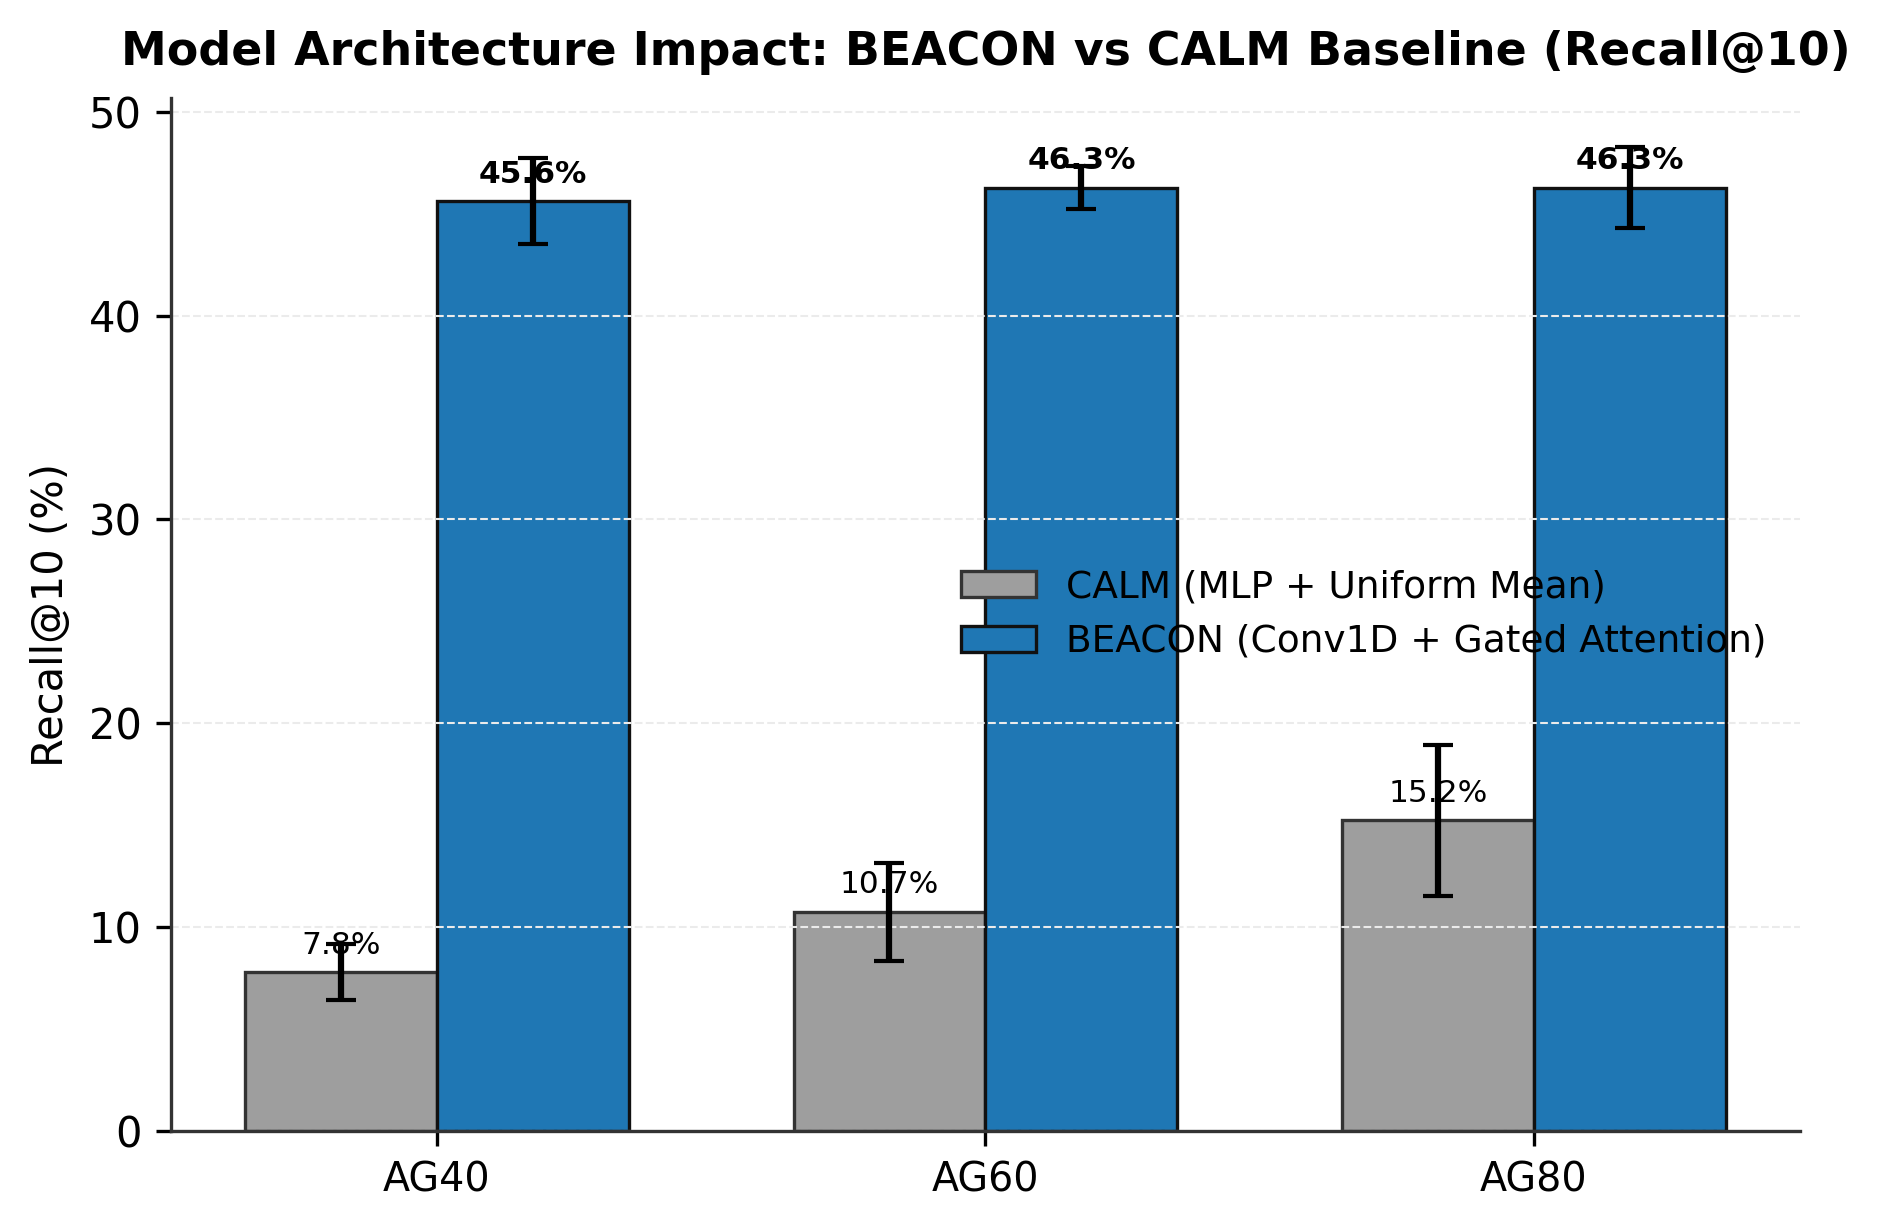
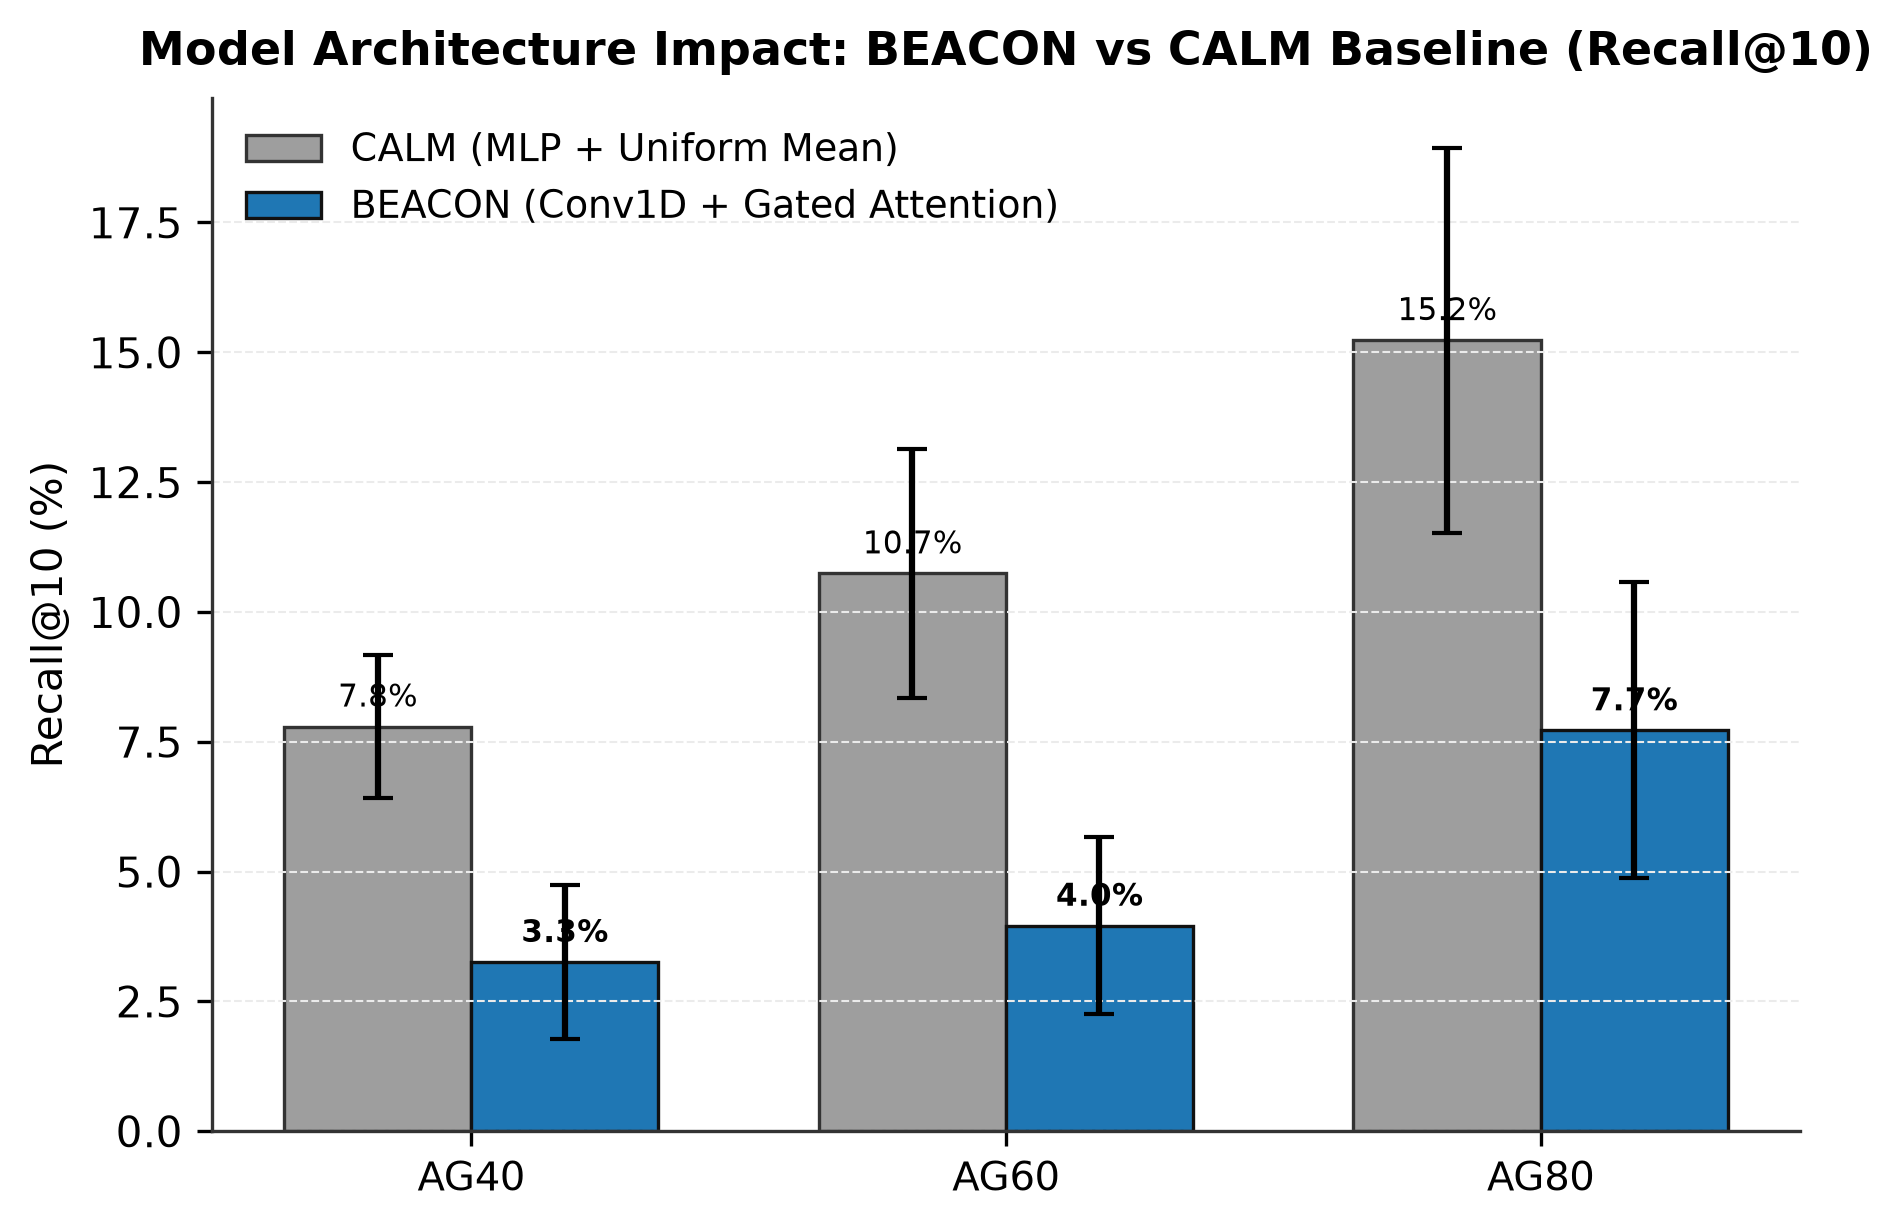
feat: align evaluation protocol with CALM (fixed pool size 256) and update benchmarks

diff --git a/scripts/train_kfold.py b/scripts/train_kfold.py
@@ -31,6 +31,7 @@ if str(PROJECT_ROOT) not in sys.path:
     sys.path.insert(0, str(PROJECT_ROOT))
 
 from beacon.config import BiEncoderConfig, TrainingConfig, load_config
+from beacon.config import EvaluationConfig
 from beacon.data.clustering import build_clusters, subsample
 from beacon.data.dataset import BiomoleculePairDataset, collate_padded_batch
 from beacon.data.embeddings import MemoryMappedEmbeddingStore
@@ -113,6 +114,112 @@ def evaluate_split_retrieval(
     }
 
 
+def build_evaluation_pools(indices, pool_size: int = 256, max_pairs: int = 512, seed: int = 0) -> List[np.ndarray]:
+    """Builds evaluation candidate pools of fixed size (matching CALM protocol)."""
+    rng = np.random.default_rng(seed)
+    order = np.asarray(list(indices), dtype=np.int64)
+    rng.shuffle(order)
+    if max_pairs and int(max_pairs) > 0:
+        order = order[: int(max_pairs)]
+    width = max(2, int(pool_size))
+    pools: List[np.ndarray] = []
+    for start in range(0, order.size, width):
+        block = order[start:start + width]
+        if block.size == width:
+            pools.append(block)
+    if not pools and order.size >= 2:
+        pools.append(order)
+    return pools
+
+
+def extract_split_embeddings(
+    model: BiEncoderScreening,
+    dataset: BiomoleculePairDataset,
+    indices: List[int],
+    device: torch.device
+) -> Dict[str, torch.Tensor]:
+    """Extracts antibody and antigen embeddings and labels for a specific split."""
+    model.eval()
+    sub = Subset(dataset, indices)
+    loader = DataLoader(
+        sub,
+        batch_size=min(len(sub), 256),
+        shuffle=False,
+        collate_fn=collate_padded_batch,
+        num_workers=(4 if device.type == "cuda" else 0),
+        pin_memory=(device.type == "cuda")
+    )
+    all_ab_emb, all_ag_emb = [], []
+    all_ab_lbl, all_ag_lbl = [], []
+
+    with torch.no_grad():
+        for batch in loader:
+            ag_feat = batch["antigen_feat"].to(device, non_blocking=True)
+            ab_feat = batch["antibody_feat"].to(device, non_blocking=True)
+            ag_mask = batch["antigen_mask"].to(device, non_blocking=True)
+            ab_mask = batch["antibody_mask"].to(device, non_blocking=True)
+            cdr_mask = batch["cdr_mask"].to(device, non_blocking=True)
+
+            if device.type == "cuda":
+                with torch.amp.autocast(device_type="cuda", dtype=torch.bfloat16 if torch.cuda.is_bf16_supported() else torch.float16):
+                    v_ag = model.encode_antigen(ag_feat, ag_mask)
+                    u_ab = model.encode_antibody(ab_feat, ab_mask, cdr_mask)
+            else:
+                v_ag = model.encode_antigen(ag_feat, ag_mask)
+                u_ab = model.encode_antibody(ab_feat, ab_mask, cdr_mask)
+
+            all_ab_emb.append(u_ab.cpu().float())
+            all_ag_emb.append(v_ag.cpu().float())
+            all_ab_lbl.append(batch["antibody_label"])
+            all_ag_lbl.append(batch["antigen_label"])
+
+    return {
+        "ab_emb": torch.cat(all_ab_emb, dim=0),
+        "ag_emb": torch.cat(all_ag_emb, dim=0),
+        "ab_lbl": torch.cat(all_ab_lbl, dim=0),
+        "ag_lbl": torch.cat(all_ag_lbl, dim=0),
+    }
+
+
+def evaluate_pools_from_embeddings(
+    split_embs: Dict[str, torch.Tensor],
+    pools_local_indices: List[np.ndarray],
+    ks: Tuple[int, ...] = (1, 5, 10, 50, 100)
+) -> Dict[str, Any]:
+    """Computes Recall@K over fixed pools (CALM protocol) using precomputed embeddings."""
+    totals = {"ab_to_ag": {}, "ag_to_ab": {}, "mean": {}}
+    weight = 0
+    for pool_idx in pools_local_indices:
+        idx_t = torch.as_tensor(pool_idx, dtype=torch.long)
+        u_ab = split_embs["ab_emb"][idx_t]
+        v_ag = split_embs["ag_emb"][idx_t]
+        ab_lbl = split_embs["ab_lbl"][idx_t]
+        ag_lbl = split_embs["ag_lbl"][idx_t]
+
+        sim_ab2ag = torch.matmul(u_ab, v_ag.t())
+        pos_ab2ag = positive_mask(ag_lbl)
+        sim_ag2ab = sim_ab2ag.t()
+        pos_ag2ab = positive_mask(ab_lbl)
+
+        r_ab2ag = compute_recall_at_k(sim_ab2ag, pos_ab2ag, ks)
+        r_ag2ab = compute_recall_at_k(sim_ag2ab, pos_ag2ab, ks)
+        p_len = len(pool_idx)
+        for k in ks:
+            totals["ab_to_ag"][k] = totals["ab_to_ag"].get(k, 0.0) + r_ab2ag[k] * p_len
+            totals["ag_to_ab"][k] = totals["ag_to_ab"].get(k, 0.0) + r_ag2ab[k] * p_len
+            totals["mean"][k] = totals["mean"].get(k, 0.0) + 0.5 * (r_ab2ag[k] + r_ag2ab[k]) * p_len
+        weight += p_len
+
+    res = {}
+    for d in totals:
+        res[d] = {k: totals[d][k] / max(weight, 1) for k in totals[d]}
+    res["pairs"] = weight
+    res["pools"] = len(pools_local_indices)
+    res["pool_size"] = len(pools_local_indices[0]) if pools_local_indices else 0
+    res["random_baseline"] = {k: min(1.0, float(k) / float(max(res["pool_size"], 1))) for k in ks}
+    return res
+
+
 def train_single_fold(
     fold_idx: int,
     model_cfg: BiEncoderConfig,
@@ -121,7 +228,9 @@ def train_single_fold(
     split_indices,
     device: torch.device,
     fold_save_dir: Path,
-    ks: Tuple[int, ...] = (1, 5, 10, 50, 100)
+    ks: Tuple[int, ...] = (1, 5, 10, 50, 100),
+    pool_size: int = 256,
+    test_pairs_per_fold: int = 512
 ) -> Dict[str, Any]:
     """Trains a single fold and returns validation/test performance."""
     print("\n" + "=" * 70)
@@ -220,17 +329,31 @@ def train_single_fold(
         if epoch % 5 == 0 or epoch == train_cfg.epochs:
             print(f"  [Fold {fold_idx}] Epoch {epoch:02d}/{train_cfg.epochs:02d} | Loss: {avg_loss:.4f} | Val R@10: {val_r10*100:.2f}% (Best: {best_val_score*100:.2f}% @ Ep{best_epoch})")
 
-    # Load best checkpoint and evaluate on held-out test split
-    print(f"  Evaluating Best Fold {fold_idx} Checkpoint (Epoch {best_epoch}) on Test Set...")
+    # Load best checkpoint and evaluate on held-out test split (both fixed pool and full test split)
+    print(f"  Evaluating Best Fold {fold_idx} Checkpoint (Epoch {best_epoch}) on Test Set (Pool {pool_size} & Full Split)...")
     best_data = torch.load(best_ckpt_path, map_location=device, weights_only=False)
     model.load_state_dict(best_data["model_state"])
-    test_res = evaluate_split_retrieval(model, test_loader, device, ks=ks)
+
+    # 1. Full test split evaluation (N ~ 672 candidates)
+    test_full_res = evaluate_split_retrieval(model, test_loader, device, ks=ks)
+
+    # 2. Fixed pool evaluation (K = 256 candidates, strictly aligned with CALM protocol)
+    test_embs = extract_split_embeddings(model, full_dataset, split_indices.test, device)
+    pools = build_evaluation_pools(
+        range(len(split_indices.test)),
+        pool_size=pool_size,
+        max_pairs=test_pairs_per_fold,
+        seed=fold_idx
+    )
+    test_pool_res = evaluate_pools_from_embeddings(test_embs, pools, ks=ks)
 
     summary = {
         "fold": fold_idx,
         "best_epoch": best_epoch,
         "best_val_r10": float(best_val_score),
-        "test": test_res,
+        "test": test_pool_res,
+        "test_pool": test_pool_res,
+        "test_full": test_full_res,
         "checkpoint_path": str(best_ckpt_path)
     }
     with open(fold_save_dir / f"fold_{fold_idx}_result.json", "w", encoding="utf-8") as f:
@@ -258,6 +381,9 @@ def run_kfold_experiment(
     
     model_cfg = BiEncoderConfig(**raw_cfg.get("model", {}))
     train_cfg = TrainingConfig(**raw_cfg.get("training", {}))
+    eval_cfg_dict = raw_cfg.get("evaluation", {})
+    pool_size = int(eval_cfg_dict.get("pool_size", 256))
+    test_pairs_per_fold = int(eval_cfg_dict.get("test_pairs_per_fold", 512))
     if epochs_override is not None:
         train_cfg.epochs = epochs_override
 
@@ -360,7 +486,9 @@ def run_kfold_experiment(
             split,
             device,
             run_dir,
-            ks=ks
+            ks=ks,
+            pool_size=pool_size,
+            test_pairs_per_fold=test_pairs_per_fold
         )
         fold_outcomes.append(outcome)
 
@@ -372,6 +500,21 @@ def run_kfold_experiment(
             fold_vals = [item["test"][direction][str(k) if str(k) in item["test"][direction] else k] for item in fold_outcomes]
             m, ci = mean_and_ci95(fold_vals)
             summary_stats[direction][str(k)] = {
+                "mean": m,
+                "ci95": ci,
+                "folds": fold_vals
+            }
+
+    summary_full_stats: Dict[str, Dict[str, Any]] = {}
+    for direction in ("ab_to_ag", "ag_to_ab", "mean"):
+        summary_full_stats[direction] = {}
+        for k in ks:
+            fold_vals = [
+                item.get("test_full", item["test"])[direction][str(k) if str(k) in item.get("test_full", item["test"])[direction] else k]
+                for item in fold_outcomes
+            ]
+            m, ci = mean_and_ci95(fold_vals)
+            summary_full_stats[direction][str(k)] = {
                 "mean": m,
                 "ci95": ci,
                 "folds": fold_vals
@@ -397,18 +540,27 @@ def run_kfold_experiment(
         "pairs": len(df),
         "folds": folds_count,
         "device": str(device),
+        "pool_size": pool_size,
+        "random_baseline": {
+            str(k): min(1.0, float(k) / float(pool_size)) for k in ks
+        },
         "best_fold": {
             "fold": best_fold_idx,
             "best_epoch": best_fold_outcome["best_epoch"],
             "test_scores": best_fold_outcome["test"],
+            "test_scores_full": best_fold_outcome.get("test_full", best_fold_outcome["test"]),
             "checkpoint": str(best_overall_dst)
         },
         "summary": summary_stats,
+        "summary_full": summary_full_stats,
         "folds_detail": fold_outcomes
     }
 
     report_path = run_dir / "kfold_summary.json"
     with open(report_path, "w", encoding="utf-8") as f:
+        json.dump(final_report, f, indent=2)
+
+    with open(run_dir / "results.json", "w", encoding="utf-8") as f:
         json.dump(final_report, f, indent=2)
 
     # 6. Display Clean Summary Table

diff --git a/beacon/config.py b/beacon/config.py
@@ -43,6 +43,13 @@ def load_config(path: str) -> BiEncoderConfig:
         data = yaml.safe_load(f)
     return BiEncoderConfig(**data.get("model", {}))
 @dataclass
+class EvaluationConfig:
+    pool_size: int = 256
+    test_pairs_per_fold: int = 512
+    ks: tuple = (1, 5, 10, 50, 100)
+
+
+@dataclass
 class KFoldExperimentConfig:
     name: str = "ag40"
     label: str = "Ab-Ag 40% Cluster Disjoint"
@@ -52,6 +59,7 @@ class KFoldExperimentConfig:
     output_dir: str = "artifacts/runs"
     model: BiEncoderConfig = field(default_factory=BiEncoderConfig)
     training: TrainingConfig = field(default_factory=TrainingConfig)
+    evaluation: EvaluationConfig = field(default_factory=EvaluationConfig)
 
 
 def load_kfold_config(path: str) -> KFoldExperimentConfig:
@@ -59,6 +67,7 @@ def load_kfold_config(path: str) -> KFoldExperimentConfig:
         data = yaml.safe_load(f)
     model_cfg = BiEncoderConfig(**data.get("model", {}))
     train_cfg = TrainingConfig(**data.get("training", {}))
+    eval_cfg = EvaluationConfig(**data.get("evaluation", {}))
     return KFoldExperimentConfig(
         name=data.get("name", "ag40"),
         label=data.get("label", "Ab-Ag 40% Cluster Disjoint"),
@@ -67,5 +76,6 @@ def load_kfold_config(path: str) -> KFoldExperimentConfig:
         cluster_on=data.get("cluster_on", "antigen"),
         output_dir=data.get("output_dir", "artifacts/runs"),
         model=model_cfg,
-        training=train_cfg
+        training=train_cfg,
+        evaluation=eval_cfg
     )

diff --git a/artifacts/report/tables.md b/artifacts/report/tables.md
@@ -1,5 +1,5 @@
 | Split | Setting | Folds | Recall@1 (Mean±CI) | Recall@5 (Mean±CI) | Recall@10 (Mean±CI) | Recall@50 (Mean±CI) | Recall@100 (Mean±CI) | Best Fold Recall@10 |
 | --- | --- | --- | --- | --- | --- | --- | --- | --- |
-| AG40 | Ab-Ag 40% Cluster Disjoint | 5-Fold | 25.55 ± 1.09% | 40.83 ± 1.84% | 45.62 ± 2.10% | 57.44 ± 2.58% | 64.36 ± 2.84% | 47.51% (Fold 3) |
-| AG60 | Ab-Ag 60% Cluster Disjoint | 5-Fold | 25.84 ± 1.40% | 41.39 ± 0.63% | 46.28 ± 1.05% | 57.69 ± 0.62% | 65.14 ± 1.17% | 47.69% (Fold 1) |
-| AG80 | Ab-Ag 80% Cluster Disjoint | 5-Fold | 25.96 ± 1.50% | 41.24 ± 1.58% | 46.28 ± 1.97% | 57.28 ± 1.97% | 64.83 ± 2.67% | 48.50% (Fold 1) |
+| AG40 | Ab-Ag 40% Cluster Disjoint | 5-Fold |  0.37 ± 0.29% |  1.76 ± 0.70% |  3.26 ± 1.49% | 12.41 ± 2.83% | 22.66 ± 3.81% | 5.28% (Fold 2) |
+| AG60 | Ab-Ag 60% Cluster Disjoint | 5-Fold |  0.60 ± 0.34% |  2.25 ± 1.37% |  3.96 ± 1.70% | 15.58 ± 5.51% | 26.82 ± 7.05% | 5.73% (Fold 3) |
+| AG80 | Ab-Ag 80% Cluster Disjoint | 5-Fold |  1.49 ± 0.38% |  4.46 ± 1.45% |  7.72 ± 2.85% | 19.90 ± 5.39% | 30.91 ± 5.87% | 10.94% (Fold 4) |
